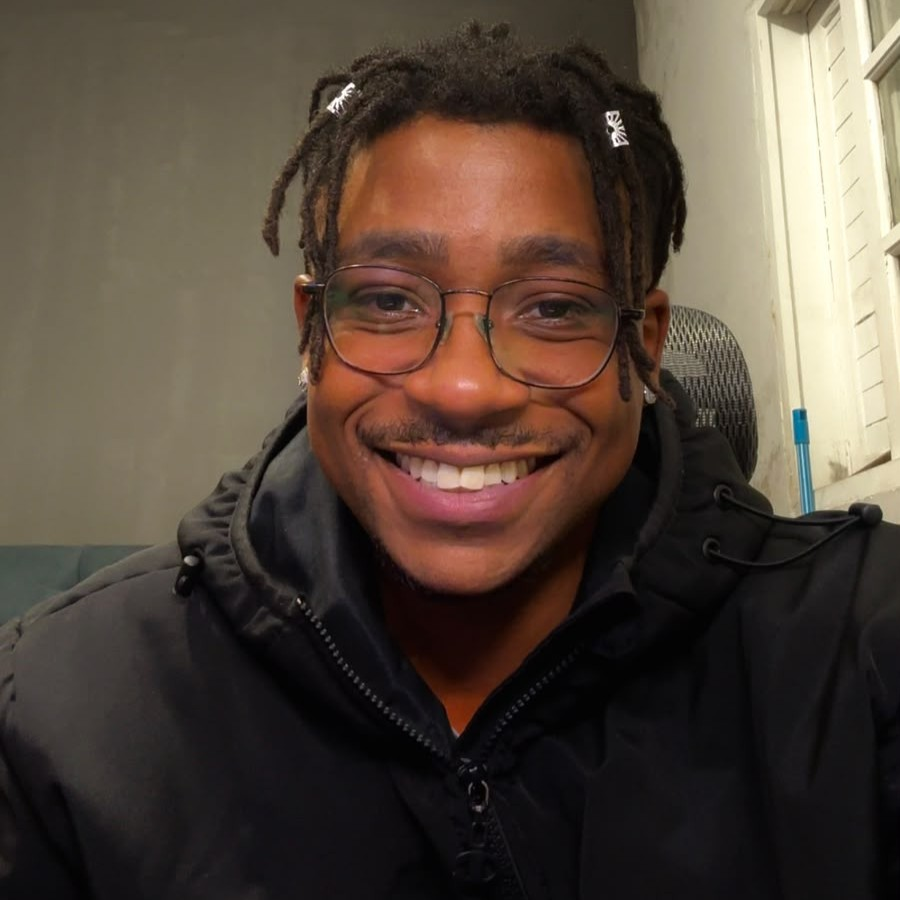
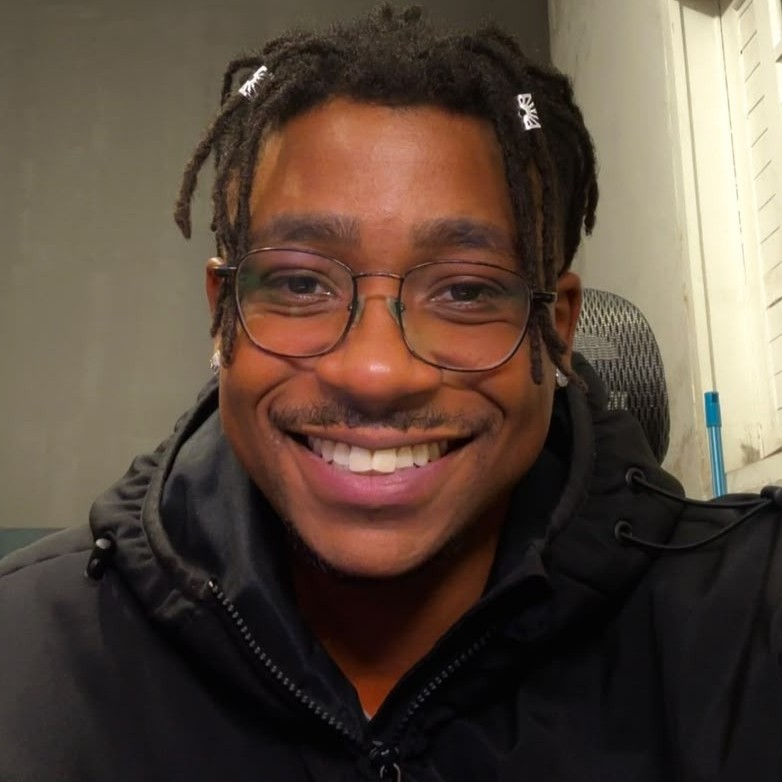
deifinição de layout

diff --git a/index.html b/index.html
@@ -3,9 +3,9 @@
   <head>
     <meta charset="UTF-8" />
     <meta name="viewport" content="width=device-width, initial-scale=1.0" />
-    <title>Lucas Cipriano | Perfil Profissional</title>
+    <title>Lucas Cipriano | Desenvolvedor Full Stack</title>
     <link rel="stylesheet" href="styles.css" />
-    <link rel="icon" href="Logo luck.png" type="image/png" />
+    <link rel="icon" href="favicon.ico" type="image/x-icon" />
   </head>
   <body>
     <header class="site-header">
@@ -36,9 +36,9 @@
             class="avatar"
           />
           <div class="profile-info">
-            <p class="eyebrow">Perfil profissional</p>
+            <p class="eyebrow">Quem sou</p>
             <h1>Lucas Cipriano</h1>
-            <h2>Analista Genesys | Desenvolvedor Web</h2>
+            <h2>Analista Genesys | Desenvolvedor Full Stack</h2>
             <p class="summary">
               Profissional especializado em desenvolvimento de soluções para Contact Center, 
               com mais de cinco anos de experiência em Genesys Cloud CX, Genesys Engage e 
@@ -58,7 +58,7 @@
             <div class="carousel-track">
               <article class="skill-card" tabindex="0" role="button" aria-expanded="false">
                 <div class="skill-logo">🧩</div>
-                <h4>Java & Python</h4>
+                <h4>Python & Java </h4>
                 <p class="skill-summary">Implementação de integrações, serviços backend e automação de processos.</p>
                 <ul class="skill-details">
                   <li>Serviços backend e integrações</li>
@@ -117,41 +117,46 @@
         <section class="section-block reveal-section" id="experiencia">
           <h3>Experiência</h3>
           <div class="info-list">
-            <article class="info-item">
+            <a class="info-item info-link" href="https://www.capgemini.com/br-pt/" target="_blank" rel="noopener noreferrer" aria-label="Abrir site da Capgemini">
               <div>
                 <h4>Capgemini</h4>
-                <p class="muted">Analista Genesys | Desenvolvedor Web • Mai/2024 – Atualmente</p>
+                <p class="muted">Especialista Genesys | Desenvolvedor Full Stack</p>
+                <p class="muted">Mai/2024 – Atualmente</p>
               </div>
               <p>Desenvolvimento e evolução de soluções de Contact Center no Genesys Cloud CX, incluindo a plataforma AtendeBra para o Bradesco, com Angular, APIs REST, Embeddable Framework e evolução de ambientes críticos.</p>
-            </article>
-            <article class="info-item">
+            </a>
+            <a class="info-item info-link" href="https://alctel.com.br/" target="_blank" rel="noopener noreferrer" aria-label="Abrir site da Alcatel-Lucent Enterprise">
               <div>
-                <h4>Alctel-Lucent</h4>
-                <p class="muted">Analista Genesys • Nov/2023 – Mai/2024</p>
+                <h4>Alctel</h4>
+                <p class="muted">Analista Genesys</p>
+                <p class="muted">Nov/2023 – Mai/2024</p>
               </div>
               <p>Desenvolvimento e sustentação de soluções em Genesys Cloud, criação de fluxos no Architect, prompts, administração de usuários e suporte técnico operacional.</p>
-            </article>
-            <article class="info-item">
+            </a>
+            <a class="info-item info-link" href="https://www.globalhitss.com/br/" target="_blank" rel="noopener noreferrer" aria-label="Abrir site da Global Hitss">
               <div>
                 <h4>Global Hitss / Embratel</h4>
-                <p class="muted">Analista Desenvolvedor de URA • Nov/2022 – Jun/2023</p>
+                <p class="muted">Analista Desenvolvedor de URA</p>
+                <p class="muted">Nov/2022 – Jun/2023</p>
               </div>
               <p>Desenvolvimento e manutenção de aplicações em Genesys Cloud, correção de falhas, personalização de dashboards, integração de serviços e suporte técnico.</p>
-            </article>
-            <article class="info-item">
+            </a>
+            <a class="info-item info-link" href="https://mutant.com.br/" target="_blank" rel="noopener noreferrer" aria-label="Abrir site da Mutant">
               <div>
                 <h4>Mutant / Interaxa</h4>
-                <p class="muted">Analista Desenvolvedor • Mai/2021 – Out/2022</p>
+                <p class="muted">Analista Desenvolvedor</p>
+                <p class="muted">Mai/2021 – Out/2022</p>
               </div>
               <p>Desenvolvimento de aplicações de URA com Genesys Engage, integrações REST e soluções em Java, JavaScript, TypeScript e Python para projetos estratégicos de Bradesco, Itaú Cartões e Intermédica.</p>
-            </article>
-            <article class="info-item">
+            </a>
+            <a class="info-item info-link" href="https://www.petz.com.br/" target="_blank" rel="noopener noreferrer" aria-label="Abrir site da Petz">
               <div>
                 <h4>Petz</h4>
-                <p class="muted">Estagiário de Desenvolvimento • Nov/2019 – Mai/2021</p>
+                <p class="muted">Estagiário de Desenvolvimento</p>
+                <p class="muted">Nov/2019 – Mai/2021</p>
               </div>
               <p>Desenvolvimento e manutenção de aplicações web com Python e Django, integrações REST e evolução de sistemas internos voltados às operações do negócio.</p>
-            </article>
+            </a>
           </div>
         </section>
 
@@ -196,9 +201,15 @@
 
     <footer class="site-footer" id="contato">
       <div class="footer-content">
-        <a href="mailto:lucas.cipra@gmail.com" class="pill">Email</a>
-        <a href="https://www.linkedin.com/" target="_blank" class="pill">LinkedIn</a>
-        <a href="https://github.com/" target="_blank" class="pill">GitHub</a>
+        <a href="mailto:lucas.cipra@gmail.com" class="footer-icon-link" aria-label="Enviar email">
+          <img src="Email.png" alt="Email" class="footer-icon" />
+        </a>
+        <a href="https://www.linkedin.com/" target="_blank" rel="noopener noreferrer" class="footer-icon-link" aria-label="Abrir LinkedIn">
+          <img src="Linkedin.png" alt="LinkedIn" class="footer-icon" />
+        </a>
+        <a href="https://github.com/" target="_blank" rel="noopener noreferrer" class="footer-icon-link" aria-label="Abrir GitHub">
+          <img src="Github.png" alt="GitHub" class="footer-icon" />
+        </a>
       </div>
     </footer>
 

diff --git a/styles.css b/styles.css
@@ -5,6 +5,7 @@
   --text: #172033;
   --muted: #6b7280;
   --primary: #4f46e5;
+  --primary-rgb: 79, 70, 229;
   --primary-soft: #e8eaff;
   --border: #e5e7eb;
   --shadow: 0 18px 45px rgba(15, 23, 42, 0.12);
@@ -20,8 +21,9 @@ body.theme-dark {
   --panel: #171a1f;
   --text: #f3f4f6;
   --muted: #9ca3af;
-  --primary: #a1a1aa;
-  --primary-soft: #2a2d33;
+  --primary: #f97316;
+  --primary-rgb: 249, 115, 22;
+  --primary-soft: #3a2414;
   --border: #3a3f46;
   --shadow: 0 18px 45px rgba(0, 0, 0, 0.45);
   --header-bg: rgba(23, 26, 31, 0.9);
@@ -76,10 +78,6 @@ body {
   object-fit: contain;
   border-radius: 14px;
   padding: 4px;
-}
-
-body.theme-dark .brand-logo {
-  filter: brightness(0) invert(1);
 }
 
 .contact-pill-row {
@@ -218,6 +216,55 @@ h2 {
   padding: 8px 12px;
   border-radius: 999px;
   font-weight: 600;
+  border: 1px solid transparent;
+  transition: background 0.2s ease, color 0.2s ease, border-color 0.2s ease, box-shadow 0.2s ease, transform 0.2s ease;
+}
+
+body.theme-light .section-nav .pill,
+body.theme-light .site-footer .pill {
+  background: var(--primary-soft);
+  color: var(--primary);
+  border-color: transparent;
+}
+
+body.theme-light .section-nav .pill:hover,
+body.theme-light .section-nav .pill:focus-visible,
+body.theme-light .site-footer .pill:hover,
+body.theme-light .site-footer .pill:focus-visible {
+  background: var(--primary-soft);
+  color: var(--primary);
+  border-color: var(--primary);
+  box-shadow: 0 18px 36px rgba(var(--primary-rgb), 0.16);
+}
+
+body.theme-dark .section-nav .pill {
+  background: #3a3f46;
+  color: #ffffff;
+  border: 1px solid #4b525b;
+  transition: background 0.2s ease, color 0.2s ease, border-color 0.2s ease, transform 0.2s ease;
+}
+
+body.theme-dark .section-nav .pill:hover,
+body.theme-dark .section-nav .pill:focus-visible {
+  background: #3a3f46;
+  color: #ffffff;
+  border-color: var(--primary);
+  box-shadow: 0 18px 36px rgba(var(--primary-rgb), 0.16);
+}
+
+body.theme-dark .site-footer .pill {
+  background: #3a3f46;
+  color: #ffffff;
+  border: 1px solid #4b525b;
+  transition: background 0.2s ease, color 0.2s ease, border-color 0.2s ease, box-shadow 0.2s ease;
+}
+
+body.theme-dark .site-footer .pill:hover,
+body.theme-dark .site-footer .pill:focus-visible {
+  background: #3a3f46;
+  color: #ffffff;
+  border-color: var(--primary);
+  box-shadow: 0 18px 36px rgba(var(--primary-rgb), 0.16);
 }
 
 .section-block {
@@ -303,24 +350,24 @@ h2 {
 .skill-card:focus-visible:not(.is-expanded) {
   transform: scale(0.98);
   border-color: var(--primary);
-  box-shadow: 0 18px 36px rgba(79, 70, 229, 0.16);
+  box-shadow: 0 18px 36px rgba(var(--primary-rgb), 0.16);
   z-index: 4;
 }
 
 .skill-card.is-expanded {
   transform: scale(1.02);
   border-color: var(--primary);
-  box-shadow: 0 18px 36px rgba(79, 70, 229, 0.16);
+  box-shadow: 0 18px 36px rgba(var(--primary-rgb), 0.16);
   z-index: 6;
   overflow: visible;
 }
 
 .skill-card.is-expanded[data-expanded-side="left"] {
-  box-shadow: 0 24px 54px rgba(79, 70, 229, 0.24);
+  box-shadow: 0 24px 54px rgba(var(--primary-rgb), 0.24);
 }
 
 .skill-card.is-expanded[data-expanded-side="right"] {
-  box-shadow: 0 24px 54px rgba(79, 70, 229, 0.24);
+  box-shadow: 0 24px 54px rgba(var(--primary-rgb), 0.24);
 }
 
 .skill-card:focus-visible {
@@ -426,6 +473,23 @@ h2 {
   background: var(--card-bg);
 }
 
+.info-link {
+  text-decoration: none;
+  color: inherit;
+  transition: border-color 0.2s ease, box-shadow 0.2s ease, transform 0.2s ease;
+}
+
+.info-link:hover {
+  border-color: var(--primary);
+  box-shadow: 0 10px 24px rgba(var(--primary-rgb), 0.16);
+  transform: translateY(-2px);
+}
+
+.info-link:focus-visible {
+  outline: 2px solid var(--primary);
+  outline-offset: 3px;
+}
+
 .info-item > div:first-child {
   flex: 0 0 280px;
   min-width: 280px;
@@ -490,6 +554,43 @@ h2 {
   justify-content: center;
   gap: 10px;
   flex-wrap: wrap;
+}
+
+.footer-icon-link {
+  display: inline-flex;
+  align-items: center;
+  justify-content: center;
+  width: 58px;
+  height: 58px;
+  padding: 0;
+  overflow: hidden;
+  border-radius: 999px;
+  border: 1px solid transparent;
+  background: var(--primary-soft);
+  box-shadow: 0 6px 16px rgba(15, 23, 42, 0.05);
+  transition: background 0.2s ease, color 0.2s ease, border-color 0.2s ease, box-shadow 0.2s ease, transform 0.2s ease;
+}
+
+.footer-icon-link:hover,
+.footer-icon-link:focus-visible {
+  border-color: var(--primary);
+  box-shadow: 0 18px 36px rgba(var(--primary-rgb), 0.16);
+  transform: translateY(-2px);
+}
+
+.footer-icon {
+  width: 100%;
+  height: 100%;
+  object-fit: cover;
+  display: block;
+}
+
+body.theme-dark .footer-icon {
+  filter: brightness(0) invert(1);
+}
+
+body.theme-dark .footer-icon-link {
+  background: #3a3f46;
 }
 
 @media (max-width: 760px) {
